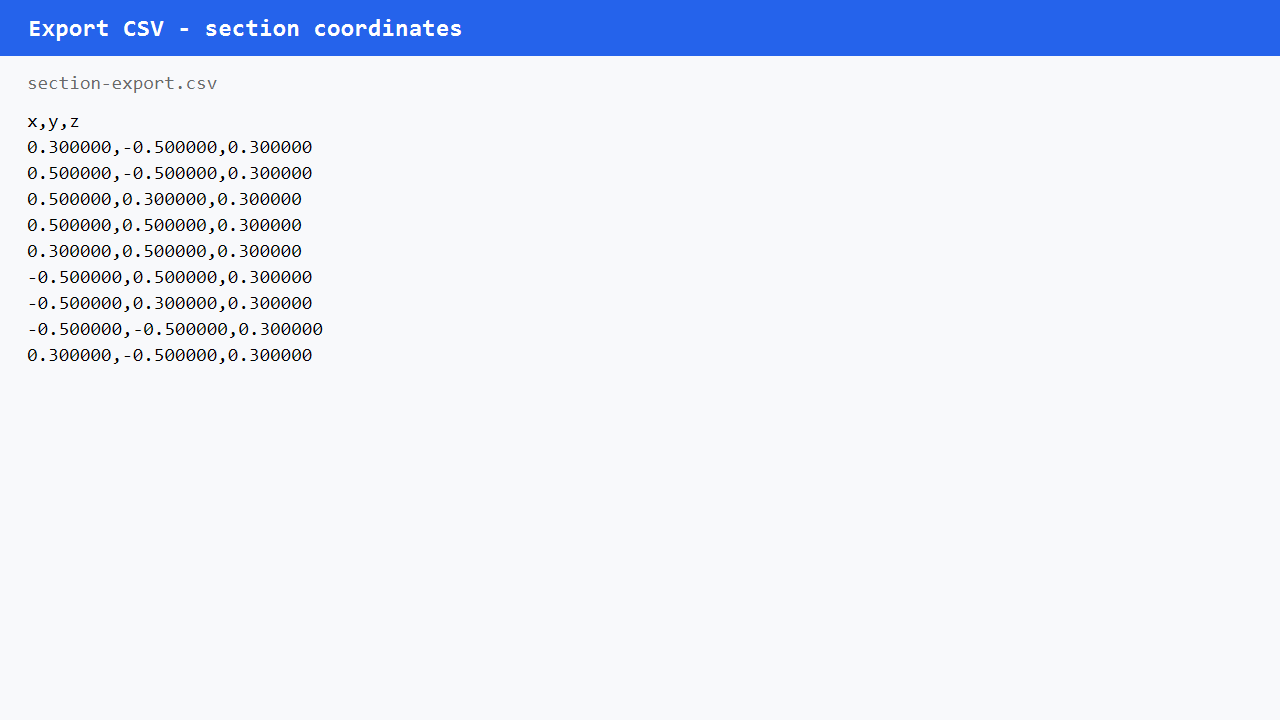
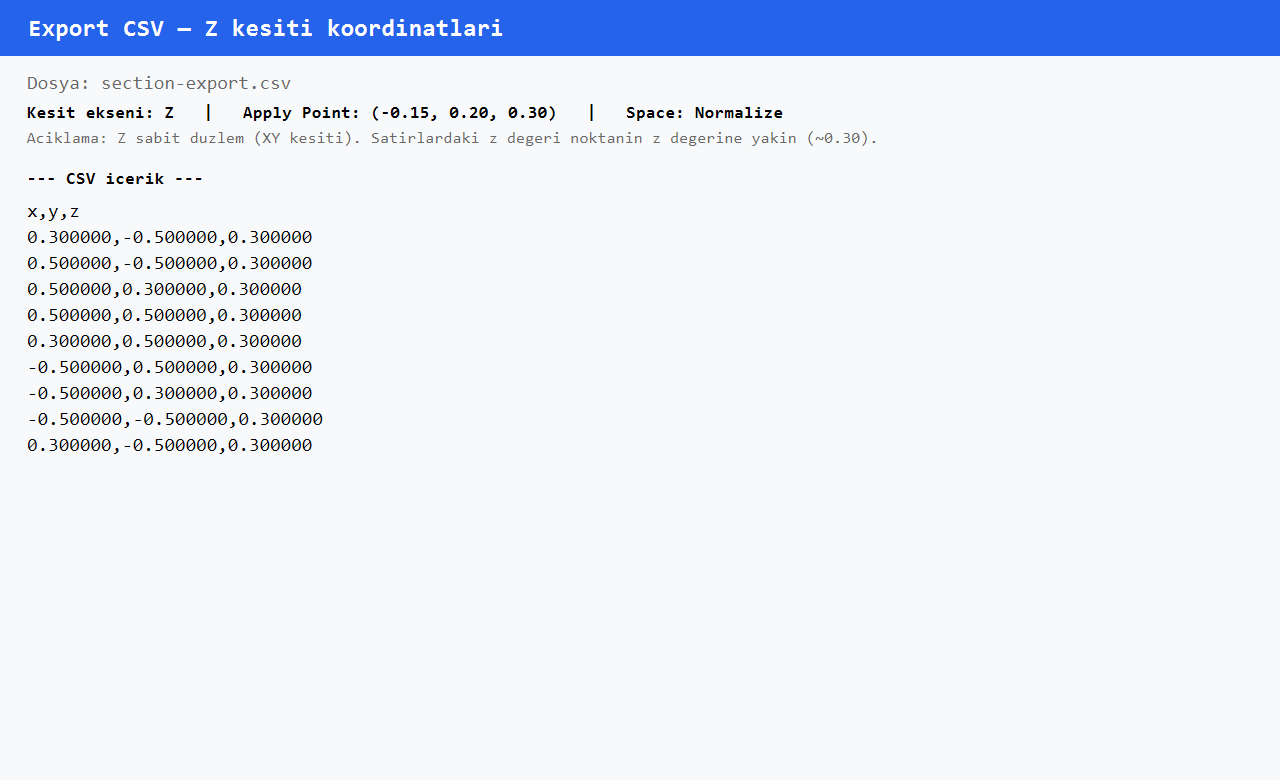
Label CSV export shot as Z-section coordinates with point and plane explanation.

Changed region(s): [[0.0, 0.0306, 1.0, 0.5806]]

diff --git a/app.js b/app.js
@@ -238,11 +238,11 @@ const GALLERY_CAPTIONS = {
   "05-section-y.png": "Take Section Y - Point(0.12, -0.25, 0.18) turuncu kesit",
   "06-section-z.png": "Take Section Z - Point(-0.15, 0.20, 0.30) turuncu kesit",
   "07-transparency.png": "Seffaflik + kesit hala gorunur",
-  "08-export-csv.png": "Export CSV tamamlandi",
-  "09-csv-content.png": "Export CSV - kesit koordinatlari"
+  "08-export-csv.png": "Export CSV — Z kesiti kaydedildi (section-export.csv)",
+  "09-csv-content.png": "CSV icerik — Z kesiti, Point(-0.15, 0.20, 0.30), z~0.30 duzlem"
 };
 
-const IMG_CACHE_BUST = "20260921xyzAll";
+const IMG_CACHE_BUST = "20260921csvZ";
 
 function prettyName(file) {
   if (GALLERY_CAPTIONS[file]) return GALLERY_CAPTIONS[file];
